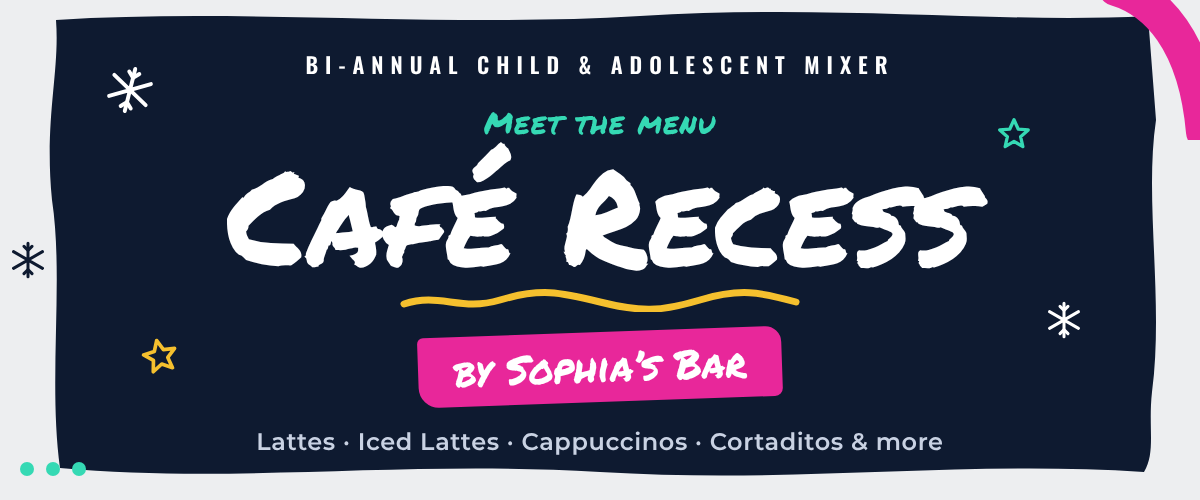
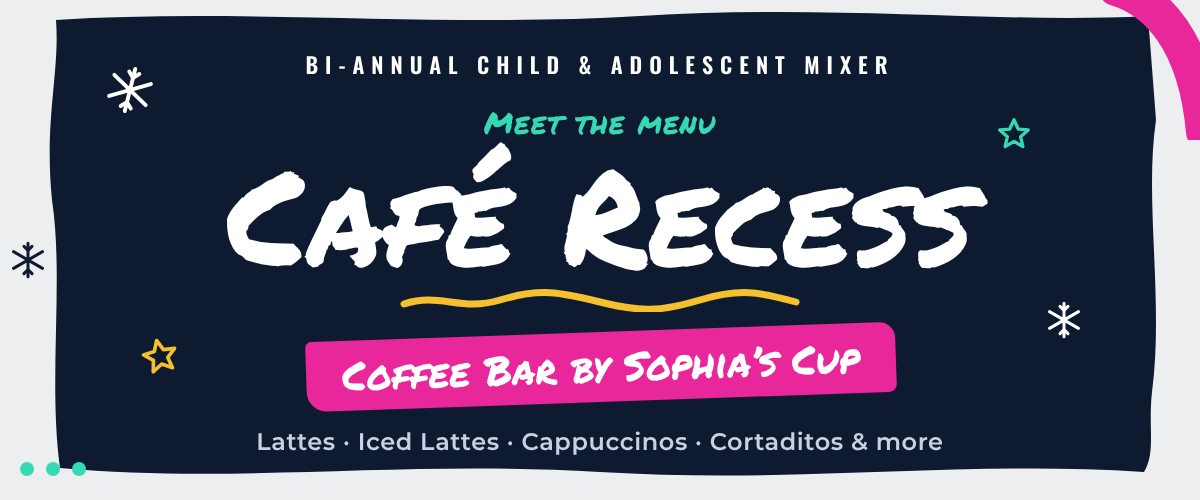
Café Recess email: Coffee Bar by Sophia's Cup
Claude-Session: https://claude.ai/code/session_01Ju4QMhqm5HCMzvJFek5mAL

Changed region(s): [[0.2467, 0.63, 0.7708, 0.84]]

diff --git a/email/cafe-recess-email.html b/email/cafe-recess-email.html
@@ -19,18 +19,18 @@
 </style>
 </head>
 <body style="margin:0;padding:0;background-color:#EDEEF0;background-image:url(https://becoded126.github.io/mixer-frames/email/snow-tile.png);background-repeat:repeat;-webkit-text-size-adjust:100%">
-<div style="display:none;font-size:1px;line-height:1px;max-height:0;max-width:0;opacity:0;overflow:hidden;mso-hide:all">Sophia’s Bar will be on-site all morning, making any coffee drink your way, as many as you like.&nbsp;&zwnj;&nbsp;&zwnj;&nbsp;&zwnj;&nbsp;&zwnj;&nbsp;&zwnj;&nbsp;&zwnj;&nbsp;&zwnj;&nbsp;&zwnj;&nbsp;&zwnj;&nbsp;&zwnj;&nbsp;&zwnj;&nbsp;&zwnj;&nbsp;&zwnj;&nbsp;&zwnj;&nbsp;&zwnj;&nbsp;&zwnj;&nbsp;&zwnj;&nbsp;&zwnj;&nbsp;&zwnj;&nbsp;&zwnj;&nbsp;&zwnj;&nbsp;&zwnj;&nbsp;&zwnj;&nbsp;&zwnj;&nbsp;&zwnj;&nbsp;&zwnj;&nbsp;&zwnj;&nbsp;&zwnj;&nbsp;&zwnj;&nbsp;&zwnj;&nbsp;&zwnj;&nbsp;&zwnj;&nbsp;&zwnj;&nbsp;&zwnj;&nbsp;&zwnj;&nbsp;&zwnj;&nbsp;&zwnj;&nbsp;&zwnj;&nbsp;&zwnj;&nbsp;&zwnj;&nbsp;&zwnj;&nbsp;&zwnj;&nbsp;&zwnj;&nbsp;&zwnj;&nbsp;&zwnj;&nbsp;&zwnj;&nbsp;&zwnj;&nbsp;&zwnj;&nbsp;&zwnj;&nbsp;&zwnj;&nbsp;&zwnj;&nbsp;&zwnj;&nbsp;&zwnj;&nbsp;&zwnj;&nbsp;&zwnj;&nbsp;&zwnj;&nbsp;&zwnj;&nbsp;&zwnj;&nbsp;&zwnj;&nbsp;&zwnj;</div>
+<div style="display:none;font-size:1px;line-height:1px;max-height:0;max-width:0;opacity:0;overflow:hidden;mso-hide:all">Sophia’s Cup will be on-site all morning, making any coffee drink your way, as many as you like.&nbsp;&zwnj;&nbsp;&zwnj;&nbsp;&zwnj;&nbsp;&zwnj;&nbsp;&zwnj;&nbsp;&zwnj;&nbsp;&zwnj;&nbsp;&zwnj;&nbsp;&zwnj;&nbsp;&zwnj;&nbsp;&zwnj;&nbsp;&zwnj;&nbsp;&zwnj;&nbsp;&zwnj;&nbsp;&zwnj;&nbsp;&zwnj;&nbsp;&zwnj;&nbsp;&zwnj;&nbsp;&zwnj;&nbsp;&zwnj;&nbsp;&zwnj;&nbsp;&zwnj;&nbsp;&zwnj;&nbsp;&zwnj;&nbsp;&zwnj;&nbsp;&zwnj;&nbsp;&zwnj;&nbsp;&zwnj;&nbsp;&zwnj;&nbsp;&zwnj;&nbsp;&zwnj;&nbsp;&zwnj;&nbsp;&zwnj;&nbsp;&zwnj;&nbsp;&zwnj;&nbsp;&zwnj;&nbsp;&zwnj;&nbsp;&zwnj;&nbsp;&zwnj;&nbsp;&zwnj;&nbsp;&zwnj;&nbsp;&zwnj;&nbsp;&zwnj;&nbsp;&zwnj;&nbsp;&zwnj;&nbsp;&zwnj;&nbsp;&zwnj;&nbsp;&zwnj;&nbsp;&zwnj;&nbsp;&zwnj;&nbsp;&zwnj;&nbsp;&zwnj;&nbsp;&zwnj;&nbsp;&zwnj;&nbsp;&zwnj;&nbsp;&zwnj;&nbsp;&zwnj;&nbsp;&zwnj;&nbsp;&zwnj;&nbsp;&zwnj;</div>
 <table role="presentation" width="100%" cellpadding="0" cellspacing="0" border="0" bgcolor="#EDEEF0" background="https://becoded126.github.io/mixer-frames/email/snow-tile.png" style="background-color:#EDEEF0;background-image:url(https://becoded126.github.io/mixer-frames/email/snow-tile.png);background-repeat:repeat"><tr><td align="center" style="padding:20px 10px">
 <table role="presentation" class="wrap" width="600" cellpadding="0" cellspacing="0" border="0" style="width:600px;max-width:600px">
 
 <tr><td class="pad" style="padding:6px 24px 10px 24px;font-family:Oswald, 'Arial Narrow', Arial, sans-serif;font-size:13px;font-weight:600;letter-spacing:4px;color:#0E1A30">FLBHC &times; DISCOVERY BEHAVIORAL HEALTH</td></tr>
 <tr><td align="center" style="padding:6px 24px 4px 24px"><span style="display:inline-block;background:#E8279A;color:#FFFFFF;font-family:Oswald, 'Arial Narrow', Arial, sans-serif;font-size:14px;font-weight:700;letter-spacing:4px;padding:6px 16px">THE COFFEE BAR</span></td></tr>
 
-<tr><td style="padding:6px 0 0 0"><img src="https://becoded126.github.io/mixer-frames/email/cafe-hero.png" width="600" alt="Bi-Annual Child &amp; Adolescent Mixer. Meet the menu: Café Recess, by Sophia’s Bar. Lattes, iced lattes, cappuccinos, cortaditos and more." style="display:block;width:100%;max-width:600px;height:auto;border:0;font-family:Montserrat, Arial, Helvetica, sans-serif;font-size:24px;font-weight:800;color:#0E1A30"></td></tr>
+<tr><td style="padding:6px 0 0 0"><img src="https://becoded126.github.io/mixer-frames/email/cafe-hero.png" width="600" alt="Bi-Annual Child &amp; Adolescent Mixer. Meet the menu: Café Recess, Coffee Bar by Sophia’s Cup. Lattes, iced lattes, cappuccinos, cortaditos and more." style="display:block;width:100%;max-width:600px;height:auto;border:0;font-family:Montserrat, Arial, Helvetica, sans-serif;font-size:24px;font-weight:800;color:#0E1A30"></td></tr>
 
 <tr><td class="pad" style="padding:10px 44px 0 44px;text-align:center">
 <p style="margin:0 0 10px 0;font-family:Montserrat, Arial, Helvetica, sans-serif;font-size:16px;line-height:24px;font-weight:700;color:#0E1A30">The Bi-Annual Child &amp; Adolescent Mixer has an on-site coffee bar, and the menu is in.</p>
-<p style="margin:0 0 10px 0;font-family:Montserrat, Arial, Helvetica, sans-serif;font-size:15px;line-height:22px;color:#0E1A30">Sophia’s Bar is serving Café Recess, five drinks named for the hosts and co-sponsors behind December 3.</p>
+<p style="margin:0 0 10px 0;font-family:Montserrat, Arial, Helvetica, sans-serif;font-size:15px;line-height:22px;color:#0E1A30">Sophia’s Cup is serving Café Recess, five drinks named for the hosts and co-sponsors behind December 3.</p>
 <p style="margin:0;font-family:Montserrat, Arial, Helvetica, sans-serif;font-size:15px;line-height:22px;color:#4A5263">Yes, there’s hot chocolate. It’ll be 80 degrees outside, and we’re serving cocoa anyway.</p>
 </td></tr>
 
@@ -93,7 +93,7 @@
 <tr><td class="pad" style="padding:26px 24px 0 24px">
 <table role="presentation" width="100%" cellpadding="0" cellspacing="0" border="0" bgcolor="#FFFFFF" style="background:#FFFFFF;border-radius:12px"><tr><td align="center" style="padding:18px 24px">
 <p style="margin:0 0 4px 0;font-family:Oswald, 'Arial Narrow', Arial, sans-serif;font-size:14px;font-weight:700;letter-spacing:4px;color:#C8187F">NOT YOUR USUAL ORDER?</p>
-<p style="margin:0;font-family:Montserrat, Arial, Helvetica, sans-serif;font-size:15px;line-height:22px;color:#0E1A30">Sophia’s Bar will be on-site all morning and can make any coffee drink you like, customized your way, not just these five. Lattes, iced lattes, cappuccinos, cortaditos, you name it. Just ask.</p>
+<p style="margin:0;font-family:Montserrat, Arial, Helvetica, sans-serif;font-size:15px;line-height:22px;color:#0E1A30">Sophia’s Cup will be on-site all morning and can make any coffee drink you like, customized your way, not just these five. Lattes, iced lattes, cappuccinos, cortaditos, you name it. Just ask.</p>
 </td></tr></table>
 </td></tr>
 
@@ -125,7 +125,7 @@
 <tr><td bgcolor="#0E1A30" align="center" class="pad" style="background:#0E1A30;padding:24px 40px;border-radius:12px">
 <p style="margin:0 0 6px 0;font-family:Montserrat, Arial, Helvetica, sans-serif;font-size:13px;line-height:19px;font-weight:700;color:#FFFFFF">Fort Lauderdale Behavioral Health Center</p>
 <p style="margin:0 0 6px 0;font-family:Montserrat, Arial, Helvetica, sans-serif;font-size:12px;line-height:18px;color:#B7C1D4">5757 N Dixie Highway, Oakland Park, FL 33334</p>
-<p style="margin:0;font-family:Montserrat, Arial, Helvetica, sans-serif;font-size:12px;line-height:18px;color:#B7C1D4">Co-hosted with Discovery Behavioral Health. Coffee bar by Sophia’s Bar. Registration closes December 3 at 9:00 AM.</p>
+<p style="margin:0;font-family:Montserrat, Arial, Helvetica, sans-serif;font-size:12px;line-height:18px;color:#B7C1D4">Co-hosted with Discovery Behavioral Health. Coffee Bar by Sophia’s Cup. Registration closes December 3 at 9:00 AM.</p>
 </td></tr>
 
 </table>
